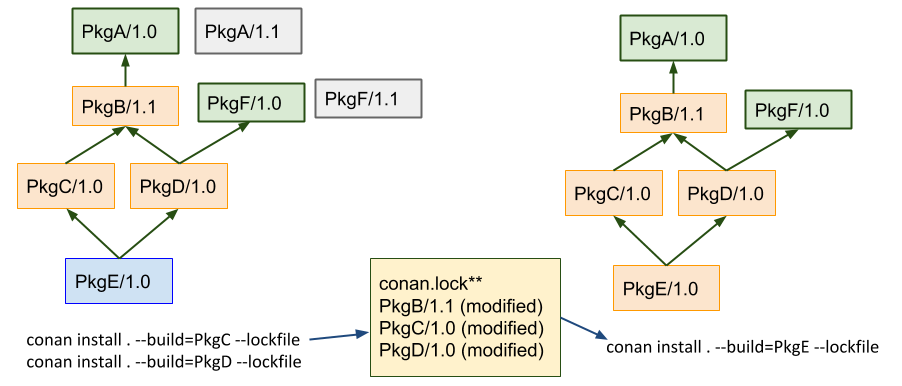
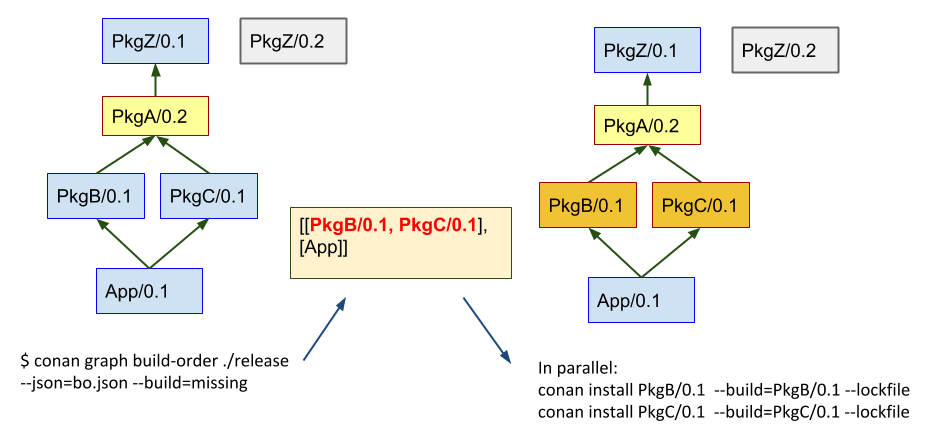
examples lockfiles ci

diff --git a/versioning/lockfiles.rst b/versioning/lockfiles.rst
@@ -130,47 +130,141 @@ For more information see :ref:`commands`
 How to use lockfiles in CI
 --------------------------
 
-One of the applications of lockfiles is to be able to propagate changes done in one package
+.. note::
+
+    The code used in this section, including a *build.py* script to reproduce it, is in the
+    examples repository: https://github.com/conan-io/examples
+
+    .. code:: bash
+
+        $ git clone https://github.com/conan-io/examples.git
+        $ cd features/lockfiles/ci
+        $ python build.py 
+
+
+One of the applications of lockfiles is to be able to propagate changes in one package
 belonging to a dependency graph downstream its affected consumers.
 
-Let's say that we have the following scenario in which one developer does some changes to PkgB,
-creating a new version **PkgB/1.1**, and lets assume that all packages use version-ranges.
-The goal is to be able to build a new dependency graph down to **PkgE/1.0** in which only those
-changes done in **PkgB/1.1** are taken into account but not other new versions of other packages,
-like new versions of PkgA and PkgF.
+Lets say that we have the following project in which packages PkgA, PkgB, PkgC, PkgZ and App
+have already been created and only one version of each, the version 0.1 exists. All packages
+are using version ranges with a range like ``PkgZ/[>0.0]``, so basically they will resolve to
+any new version of their dependencies that it is published.
 
-The process can begin capturing a lockfile of the initial status of our "product", down to PkgE:
+Also, the ``full_version_mode`` will be defined for dependencies. This means that if the version
+number of one package dependencies change, then it will require a new binary. This assumption
+is reasonable, as PkgA, PkgZ are header only libraries and PkgB and PkgC are static libraries
+that inline functionality defined in PkgA and PkgZ. No matter what the changes in PkgA and PkgZ
+are in new versions, it will be necessary to build new binaries for the downstream consumers.
+
+.. code:: bash
+
+    $ conan config set general.default_package_id_mode=full_version_mode
+
+Now, some developer does some changes to PkgA, and do a pull request to the develop branch,
+and we want our CI to build the new binaries for the dependants packages, down to the final
+application App, to make sure that every works as expected.
+
+The process starts generating a *conan.lock* lockfile in the *release* subfolder:
 
 .. code-block:: bash
 
-    $ cd PkgE
-    $ conan graph lock .
+    $ conan graph lock App/0.1@user/testing --lockfile=release
 
-After that, we can proceed to build the new **PkgB/1.1** version, with its dependencies locked:
+This lockfile will contain the resolved dependencies in the graph, as we only have one version
+0.1 for all the packages, all of them will be locked to that 0.1 version.
 
-.. code-block:: bash
-
-    $ cd PkgB
-    $ cp ../PkgE/conan.lock . # Do a copy of the lockfile
-    $ conan create PkgB/1.1@user/testing --lockfile
-    # Now the lockfile has been modified, contains PkgB/1.1 instead of PkgB/1.0
 
 .. image:: ../images/lockfile_ci_1.png
 
+
+Once the lockfile has been generated, it doesn't matter if new, unrelated versions of other
+packages, like **PkgZ/0.2** is created with ``cd PkgZ && conan create . PkgZ/0.2@user/testing``
+
+Now we can safely create the new version of **PkgA/0.2**, that will resolve to use **PkgZ/0.1**
+instead of the latest 0.2, if we use the lockfile:
+
+.. code-block:: bash
+
+    cd PkgA && conan create . PkgA/0.2@user/testing --lockfile=../release
+    # lockfile in release/conan.lock is modified to contain PkgA/0.2
+
+Note that the lockfile is modified, to contain the new **PkgA/0.2** version.
+
 The next step is to know which dependants need to be built because they are affected by the new
-**PkgB/1.1** version:
+**PkgA/0.2** version:
 
 .. code-block:: bash
 
-    $ conan graph build-order . --build=missing
-    [[PkgC, PkgD], [PkgE]]  # simplified format
+    $ conan graph build-order ./release --json=bo.json --build=missing
+    [[PkgC, PkgD], [App]]  # simplified format
 
-This command will return a list of lists, in order, of those packages to be built. We take the
-first sub-list and each package can be rebuilt, making sure the lockfile is applied:
+This command will return a list of lists, in order, of those packages to be built. It will be
+stored in a *bo.json* json file too. Note that the ``--build=missing`` follows the same rules
+as :command:`create` and :command:`install` commands. The result of evaluating the graph with
+the **PkgA/0.2** version, due to the ``full_version_mode`` policy is that new binaries for
+PkgB, PkgC and App are necessary, and they do not exist yet. If we don't provide the ``--build=missing``
+it will return an empty list (but it will fail later, because binary packages are not available).
 
-.. code-block:: bash
+We can now proceed iteratively with the following procedure:
 
-    (EXAMPLE COMING SOON!)
 
+1. pop the first element of the first sublist of the build order result, get its ``ref`` reference
+
+    .. code:: python
+
+        # python
+        _, ref = build_order[0][0]
+        ref = ref.split("#", 1)[0]
+
+2. allocate some resource, like a CI build server, or create a temporary folder.
+
+    .. code:: bash
+
+        $ mkdir build_server_folder && mkdir build_server_folder/release
+
+3. copy the lockfile to that resource (and move to it)
+
+    .. code:: bash
+
+        $ cp release/conan.lock build_server_folder/release
+        $ cd build_server_folder
+
+4. clean "modified" nodes from the lockfile
+
+    .. code:: bash
+
+        $ conan graph clean-modified release/
+
+5. build the package
+
+    .. code:: bash
+
+        $ conan install <ref> --build=<ref> --lockfile=release
+
+6. go back to the parent, update the lockfile with the changes
+
+    .. code:: bash
+
+        $ cd ..
+        $ conan graph update-lock release build_server_folder/release
+        $ rm -rf build_server_folder
+
+7. compute again the build-order of packages, if not empty, goto 1
+
+    .. code-block:: bash
+
+        $ conan graph build-order ./release --json=bo.json --build=missing
+
+Note that this is a suboptimal approach, in order to explain the functionality, which
+is more easy to follow if it is sequential. In reality, the CI can take the first
+sublist output of :command:`conan graph build-order` and fire all its packages in parallel,
+because they are guaranteed to be independent. Then, as soon as they start finishing and
+build servers become available, the :command:`conan graph build-order` can be reevaluated,
+and new builds can be launched accordingly, just taking care of not re-launching the same
+build again. Note that the result of build-order contains a unique UUID, which is the identifier
+of the node in the graph, which could be useful to dissambiguate.
 
 .. image:: ../images/lockfile_ci_2.png
+
+With this later approach, a deterministic build with optimal Continuous Integration process
+with optimal utilization of resources and minimizing unnecessary rebuilds is achieved.

diff --git a/reference/commands/misc/graph.rst b/reference/commands/misc/graph.rst
@@ -24,5 +24,140 @@ Generates and manipulates lock files.
 
 
 
+conan graph update-lock
+-----------------------
 
---EXAMPLES COMING SOON--
+.. code-block:: bash
+
+    $ conan graph update-lock [-h] old_lockfile new_lockfile
+
+Updates the *old_lockfile* file with the contents of the *new_lockfiles*.
+
+.. code-block:: text
+
+  positional arguments:
+    old_lockfile  path to previous lockfile
+    new_lockfile  path to modified lockfile
+
+  optional arguments:
+    -h, --help    show this help message and exit
+
+
+Only the packages in *new_lockfile* marked as "modified" will be processed.
+If a node in *old_lockfile* is already modified and an incompatible (different
+binary ID, different revision) updated is attempted, it will raise an error.
+The updated nodes will keep the "modified" flag when updated in *old_lockfile*
+
+This command is useful for distributed or concurrent builds of different packages
+in the same dependency graph locked by the same lockfile. When one package is rebuilt
+it will modify the package reference, and will be marked as "modified". The way
+of integrating the information of package builds into the main lockfile is this command.
+
+Example:
+
+Integrate the information of building a "pkgb" package using a lockfile (and modified
+in the folder pkgb_temp) in the main lockfile:
+
+.. code-block:: bash
+
+    $ conan graph update-lock release/conan.lock pkgb_temp/release/conan.lock
+
+
+conan graph clean-modified
+--------------------------
+
+.. code-block:: bash
+
+    $ conan graph clean-modified [-h] lockfile
+
+Cleans all "modified" flags from the given lockfile.
+
+.. code-block:: text
+
+  positional arguments:
+    lockfile    lockfile folder
+
+  optional arguments:
+    -h, --help  show this help message and exit
+
+When a package of a dependency graph is going to be re-built, using a given lockfile,
+it is desired to finish the build knowing which packages of the graph have been
+actually rebuilt as a result of the last command. This command will clean all the
+previously existing "modified" flags before such build, so after the build 
+the "modified" are only those that have been built now.
+
+conan graph build-order
+-----------------------
+
+.. code-block:: bash
+
+  $ conan graph build-order [-h] [-b [BUILD]] [--json JSON] lockfile
+
+
+Given a lockfile, compute which packages and in which order they should be built,
+as mandated by the binary ID (``package_id()``) definitions and the ``--build`` argument,
+which is the same as :command:`conan create|install`
+
+.. code-block:: text
+
+  positional arguments:
+    lockfile              lockfile folder
+
+  optional arguments:
+    -h, --help            show this help message and exit
+    -b [BUILD], --build [BUILD]
+                          nodes to build
+    --json JSON           generate output file in json format
+
+
+The result is a list of lists, containing tuples. Each tuple contains 2 elements, the
+first is a UUID of the node of the graph. It is unique and ensures a way to address
+exactly one node, even if there are nodes with the same reference (it is possible for
+example to have different build_requires with the same name and version, but different
+configuration)
+
+
+conan graph lock
+----------------
+
+.. code-block:: bash
+
+    conan graph lock [-h] [-l LOCKFILE] [-b [BUILD]] [-e ENV] [-o OPTIONS]
+                            [-pr PROFILE] [-r REMOTE] [-s SETTINGS] [-u]
+                            path_or_reference
+
+.. code-block:: text
+
+    positional arguments:
+      path_or_reference     Path to a folder containing a recipe (conanfile.py or
+                            conanfile.txt) or to a recipe file. e.g.,
+                            ./my_project/conanfile.txt. It could also be a
+                            reference
+
+    optional arguments:
+      -h, --help            show this help message and exit
+      -l LOCKFILE, --lockfile LOCKFILE
+                            Path to lockfile to be created. If not specified
+                            'conan.lock' will be created in current folder
+      -b [BUILD], --build [BUILD]
+                            Packages to build from source
+      -e ENV, --env ENV     Environment variables that will be set during the
+                            package build, -e CXX=/usr/bin/clang++
+      -o OPTIONS, --options OPTIONS
+                            Define options values, e.g., -o Pkg:with_qt=true
+      -pr PROFILE, --profile PROFILE
+                            Apply the specified profile to the install command
+      -r REMOTE, --remote REMOTE
+                            Look in the specified remote server
+      -s SETTINGS, --settings SETTINGS
+                            Settings to build the package, overwriting the
+                            defaults. e.g., -s compiler=gcc
+      -u, --update          Check updates exist from upstream remotes
+
+
+This command is similar to :command:`conan install` or :command:`conan info`, but
+with a few differences:
+- It doesn't need to retrieve binaries, it will only compute what is necessary to do,
+  according to the ``--build`` argument and rules
+- Even when ``--build`` values are specified, packages will not be built from sources.
+  It will just compute, as a "dry-run" what would happen in an equivalent :command:`conan install`
